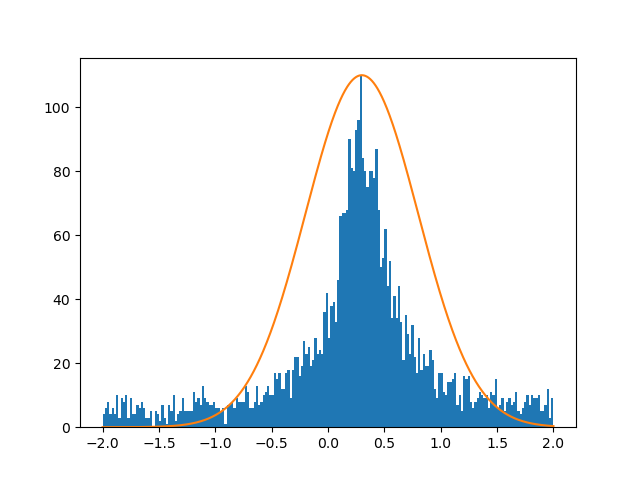
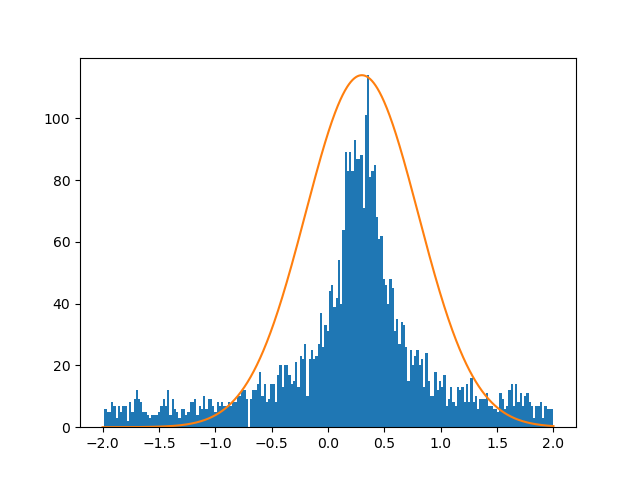
Integration with nested sampling and unequal binning working within integration.py

diff --git a/integration.py b/integration.py
@@ -1,0 +1,75 @@
+import numpy as np
+import dynesty
+from dynesty import plotting as dyplot
+import matplotlib.pyplot as plt
+from scipy import linalg, stats, integrate, special, interpolate
+import chime
+# from utils import axis
+# Define the dimensionality of our problem.
+# ratio=nested/direct=0.97658863284001
+measured = 1.5
+gauss= stats.norm(loc=10**measured,scale=0.1*10**measured)
+eaxis = np.logspace(-2,2,200)
+
+# eaxis = 10**axis
+
+def gaussfull(value):
+    return gauss.logpdf(value)
+
+prior = stats.uniform(loc=eaxis[0],scale=eaxis[-1]-eaxis[0])
+
+def priorfull(value):
+    return prior.logpdf(value)
+
+def loglike(x):
+    return float(gaussfull(x))
+
+# Define our uniform prior via the prior transform.
+
+def makeptform(priorfunc):
+    priorarray = np.exp(priorfull(eaxis)+np.log(eaxis))
+    cdfarray = np.cumsum(priorarray/np.sum(priorarray))
+    interpfunc = interpolate.interp1d(y=np.arange(0,len(cdfarray)), x=cdfarray, bounds_error=False, fill_value=(0,len(cdfarray)-1), kind='nearest')
+    
+    def ptform(u):
+        # priorarray = np.exp(priorfull(eaxis))
+        # cdfarray = np.cumsum(priorarray/np.sum(priorarray))
+        # interpfunc = interpolate.interp1d(y=np.arange(0,len(cdfarray)), x=cdfarray, bounds_error=False, fill_value=(0,len(cdfarray)-1))
+        # index = np.searchsorted(cdfarray, u[0], side='right')
+        index = int(interpfunc(u[0]))
+        u[0] = eaxis[index]
+        # u[0]= (eaxis[-1]-eaxis[0])*u[0] + eaxis[0]
+        return u
+    return ptform
+
+# Sample from our distribution.
+ndim = 1
+sampler = dynesty.NestedSampler(loglike, makeptform(priorfull), ndim,
+                                bound='single', nlive=5000)
+sampler.run_nested(dlogz=0.01)
+res = sampler.results
+
+
+chime.info('sonic')
+
+# dE = E ln(10) d(log_10(E))
+postvals = np.exp(gaussfull(eaxis)+priorfull(eaxis))
+plt.figure()
+histvals = plt.hist(res.samples, bins=int(eaxis.shape[0]/2))
+plt.plot(eaxis, postvals/np.max(postvals)*np.max(histvals[0]))
+plt.axvline(10**measured)
+plt.show()
+# Plot results.
+# lnz_truth = -np.log(2 * 10.)  # analytic evidence solution
+lnz_direct = np.log(integrate.simps(y = postvals, x=eaxis))
+# print(lnz_truth, lnz_direct, res.logz[-1])
+print(f'direct = {lnz_direct},nested = {res.logz[-1]}, ratio=nested/direct={res.logz[-1]/lnz_direct}')
+# fig = plt.subplots(4,1, figsize=(14,7))
+# fig, axes = dyplot.runplot(res, lnz_truth=lnz_truth, fig=fig)
+# plt.show()
+
+fig = plt.subplots(4,1, figsize=(14,7))
+fig, axes = dyplot.runplot(res, lnz_truth=lnz_direct, fig=fig)
+plt.show()
+
+
